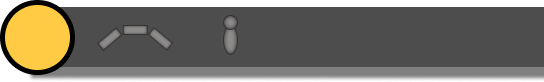
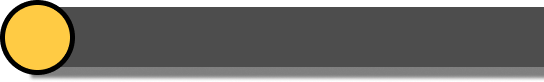
4/6/2022 Fixed the player colors and separated the army and road from initial png which had them as one group

Changed region(s): [[0.1562, 0.3171, 0.3125, 0.5854], [0.4062, 0.3659, 0.4375, 0.6341], [0.4062, 0.1951, 0.4375, 0.3415]]

diff --git a/Project/src/PlayerGraphics.java b/Project/src/PlayerGraphics.java
@@ -4,17 +4,38 @@ import java.awt.image.BufferedImage;
 public class PlayerGraphics implements GraphicsItem
 {
     private BufferedImage RedPlayer, YellowPlayer, BluePlayer, GreenPlayer;
+    private BufferedImage NormalRoad, LongestRoad, NormalArmy, LargestArmy;
 
     public PlayerGraphics()
     {
         RedPlayer = ImageLoader.getImage("Red Player");
         YellowPlayer = ImageLoader.getImage("Yellow Player");
+        BluePlayer = ImageLoader.getImage("Blue Player");
+        GreenPlayer = ImageLoader.getImage("Green Player");
+
+        NormalRoad = ImageLoader.getImage("Normal Road");
+        LongestRoad = ImageLoader.getImage("Longest Road");
+        NormalArmy = ImageLoader.getImage("Normal Army");
+        LargestArmy = ImageLoader.getImage("Largest Army");
     }
     public void draw(Graphics g)
     {
         g.drawImage(RedPlayer, 1040, 300, 544 , 81 , null);
         g.drawImage(YellowPlayer, 1040, 400, 544 , 81 , null);
-        g.drawImage(RedPlayer, 1040, 500, 544 , 81 , null);
-        g.drawImage(RedPlayer, 1040, 600, 544 , 81 , null);
+        g.drawImage(BluePlayer, 1040, 500, 544 , 81 , null);
+        g.drawImage(GreenPlayer, 1040, 600, 544 , 81 , null);
+
+        g.drawImage(NormalRoad, 1140, 320, 77 , 26 , null); //Red's player components
+        g.drawImage(NormalArmy, 1255, 315, 15 , 40 , null);
+
+        g.drawImage(NormalRoad, 1140, 420, 77 , 26 , null);//Yellow's player components
+        g.drawImage(NormalArmy, 1255, 415, 15 , 40 , null);
+
+        g.drawImage(NormalRoad, 1140, 520, 77 , 26 , null);//Blue's player components
+        g.drawImage(NormalArmy, 1255, 515, 15 , 40 , null);
+
+        g.drawImage(NormalRoad, 1140, 620, 77 , 26 , null);// Green's player components
+        g.drawImage(NormalArmy, 1255, 615, 15 , 40 , null);
+
     }
 }
